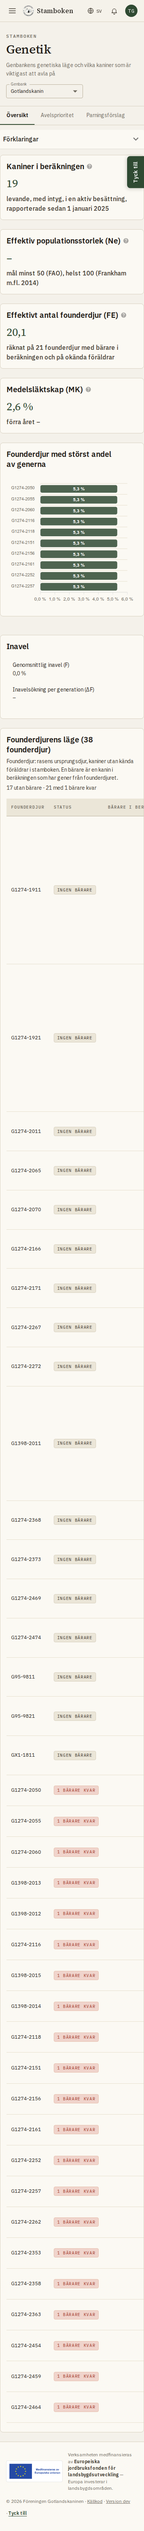
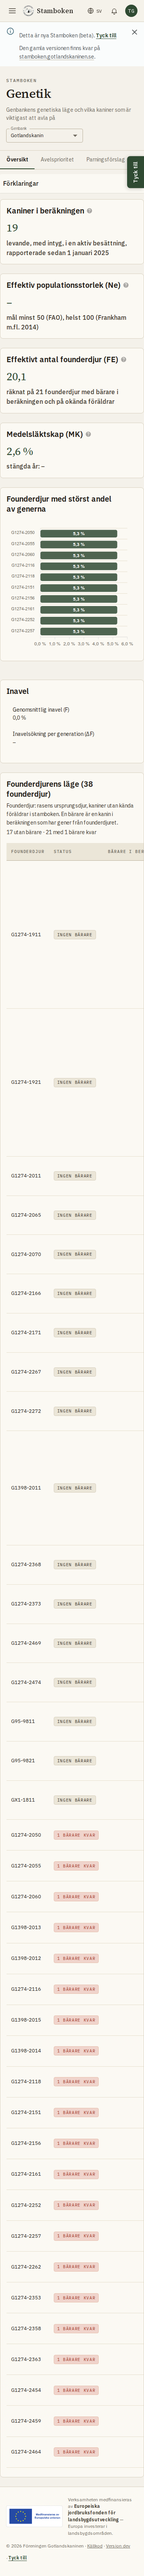
fix(genetik): compare MK across closed years only, and own the priority rule
Today's MK and a history year's MK are counted on different sets of
rabbits, which FAO 2023 (p. 12) says are not comparable, so the card
now sets today's value beside the two latest closed years instead of
"förra året". The Avelsprioritet levels are Stamboken's own percentile
rule, not PMx or Ballou & Lacy 1995 (genetics revision, spår 2 row 42);
the explanation and the docstring now say so.

diff --git a/next-app/src/__tests__/genetics/OverviewTab.test.tsx b/next-app/src/__tests__/genetics/OverviewTab.test.tsx
@@ -86,7 +86,7 @@ describe("OverviewTab", () => {
     expect(screen.getByText("75 ± 5")).toBeDefined();
     expect(screen.getByText("26,3")).toBeDefined();
     expect(screen.getByText("2,6 %")).toBeDefined();
-    expect(screen.getByText("förra året –")).toBeDefined(); // no closed year yet
+    expect(screen.getByText("stängda år: –")).toBeDefined(); // no closed year yet
     expect(screen.queryByText(/under 5|5–10|över 10/)).toBeNull();
     // The card and the table count the same founderdjur.
     expect(
@@ -102,26 +102,28 @@ describe("OverviewTab", () => {
     expect(screen.queryByText(/81/)).toBeNull();
   });
 
-  it("compares MK with the last closed year, without a verdict", () => {
-    const lastYear = new Date().getFullYear() - 1;
+  it("compares the two latest closed years on one rule, without a verdict", () => {
     trendsQuery.mockReturnValueOnce({
       data: [
-        { year: lastYear - 1, mean_kinship: 0.022 },
-        { year: lastYear, mean_kinship: 0.0241 },
+        { year: 2023, mean_kinship: 0.022 },
+        { year: 2024, mean_kinship: 0.0289 },
+        { year: 2025, mean_kinship: 0.0302 },
       ],
       isLoading: false,
     });
     renderTab();
-    expect(screen.getByText("2,6 %")).toBeDefined();
-    expect(screen.getByText("förra året 2,4 %")).toBeDefined();
+    expect(screen.getByText("2,6 %")).toBeDefined(); // today
+    expect(
+      screen.getByText("2024: 2,9 % · 2025: 3,0 % (stängda år)"),
+    ).toBeDefined();
     cleanup();
 
     trendsQuery.mockReturnValueOnce({
-      data: [{ year: lastYear - 2, mean_kinship: 0.0241 }],
+      data: [{ year: 2025, mean_kinship: null }],
       isLoading: false,
     });
     renderTab();
-    expect(screen.getByText(`år ${lastYear - 2} 2,4 %`)).toBeDefined();
+    expect(screen.getByText("2025: – (stängt år)")).toBeDefined();
   });
 
   it("states the reference window's first day in Swedish", () => {

diff --git a/next-app/src/components/genetics/OverviewTab.tsx b/next-app/src/components/genetics/OverviewTab.tsx
@@ -39,15 +39,16 @@ const Chart = dynamic(() => import("react-apexcharts"), {
 });
 
 // No literature gives an absolute MK threshold (FAO 2023: kinship rises with pedigree
-// knowledge), so the card compares with the last closed year instead of colouring a level.
-function lastYearMk(trend: TrendDataPoint[]): string {
-  const last = trend[trend.length - 1];
-  if (last?.mean_kinship == null) return "förra året –";
-  const when =
-    last.year === new Date().getFullYear() - 1
-      ? "förra året"
-      : `år ${last.year}`;
-  return `${when} ${percent(last.mean_kinship)}`;
+// knowledge), so no level is coloured. The comparison is the two latest closed years, both on
+// the history rule: today's set is another population and does not compare with them.
+function closedYearsMk(trend: TrendDataPoint[]): string {
+  const years = trend.slice(-2);
+  if (years.length === 0) return "stängda år: –";
+  const shown = years.map(
+    (d) =>
+      `${d.year}: ${d.mean_kinship == null ? "–" : percent(d.mean_kinship)}`,
+  );
+  return `${shown.join(" · ")} (${years.length === 1 ? "stängt år" : "stängda år"})`;
 }
 
 const swedishDate = (iso: string) =>
@@ -226,8 +227,8 @@ const OverviewTab = ({ genebankId }: OverviewTabProps) => {
           <KpiCard
             title="Medelsläktskap (MK)"
             value={empty ? "–" : percent(metrics.mean_kinship)}
-            subtitle={trend ? lastYearMk(trend) : undefined}
-            tooltip={MK_TEXT}
+            subtitle={trend ? closedYearsMk(trend) : undefined}
+            tooltip={`${MK_TEXT} Det stora talet gäller i dag. Åren under är räknade på varje års kaniner, så de är inte samma population som i dag: jämför åren med varandra, inte med dagens tal.`}
           />
         </Grid>
       </Grid>

diff --git a/next-app/src/components/genetics/GeneticsInfoPanel.tsx b/next-app/src/components/genetics/GeneticsInfoPanel.tsx
@@ -76,8 +76,7 @@ const descriptions: Record<
     {
       term: "Avelsprioritet",
       description:
-        "Högsta: enda kaninen i beräkningen med gener från ett founderdjur, eller ett medelsläktskap på eller under gränsen för de 5\u00a0% minst släkta. Hög: på eller under gränsen för de 25\u00a0% minst släkta, bland de 25\u00a0% med flest unika gener, eller bär gener från ett founderdjur med liten andel av generna (under hälften av en jämn fördelning). Övriga: resten.",
-      source: "Ballou och Lacy 1995 (rangordning efter medelsläktskap)",
+        "Högsta: enda kaninen i beräkningen med gener från ett founderdjur, eller ett medelsläktskap på eller under gränsen för de 5\u00a0% minst släkta. Hög: på eller under gränsen för de 25\u00a0% minst släkta, bland de 25\u00a0% med flest unika gener, eller bär gener från ett founderdjur med liten andel av generna (under hälften av en jämn fördelning). Övriga: resten. Nivåerna är Stambokens egen regel, inte en vedertagen standard: gränserna är andelar av kaninerna, så ungefär 5\u00a0% hamnar alltid i Högsta och minst 25\u00a0% i Hög, hur genbanken än mår.",
     },
     {
       term: "Ovanliga gener (0–100)",

diff --git a/app/utils/genetics.py b/app/utils/genetics.py
@@ -1932,7 +1932,9 @@ def calculate_genetic_priorities(
     """
     Assign genetic conservation priorities to active individuals.
 
-    Priority rules (following PMx/Ballou & Lacy 1995):
+    Priority rules: Stamboken's own percentile cut-offs, not a PMx rule (PMx ranks by MK
+    within sex and has no categories), so about 5 % are critical and at least 25 % important
+    whatever the population's state:
     - critical: Sole living carrier of a founder line, or MK < 5th percentile
     - important: MK < 25th percentile, or GU > 75th percentile,
                  or carries underrepresented founder

diff --git a/docs/ORDLISTA.md b/docs/ORDLISTA.md
@@ -48,8 +48,10 @@ Fliken under Genetik som visar vilka kaniner som är viktigast att avla på, i t
 Hög och Övriga. Högsta är den enda kaninen i beräkningen med gener från ett founderdjur, eller en
 kanin vars medelsläktskap är på eller under gränsen för de 5 % minst släkta. Hög är på eller under
 gränsen för de 25 % minst släkta, bland de 25 % med flest unika gener, eller bär gener från ett
-founderdjur som har liten andel av generna. Övriga är resten. Ordet Kritisk används inte, varken
-här eller om founderdjurens läge.\
+founderdjur som har liten andel av generna. Övriga är resten. Nivåerna är Stambokens egen regel,
+inte en vedertagen standard (PMx rangordnar efter medelsläktskap inom kön och har inga sådana
+klasser): gränserna är andelar av kaninerna, så ungefär 5 % blir alltid Högsta och minst 25 % Hög,
+hur genbanken än mår. Ordet Kritisk används inte, varken här eller om founderdjurens läge.\
 Kod: `calculate_genetic_priorities` (`priority`: `critical`, `important`, `normal`) · Legacy-manual: – · Legacy: – · Nytt UI: samma, "Högsta", "Hög", "Övriga" (PrioritiesTab.tsx:33–35)
 
 **Benring**\
@@ -110,7 +112,7 @@ Hur stor en idealisk population skulle vara för att förlora genetisk variation
 genbanken; ju större, desto bättre. Stamboken räknar den från hur mycket inaveln har ökat per
 generation hos varje kanin i beräkningen (realiserad Ne, Gutiérrez m.fl. 2008), både för i dag och
 för varje stängt år i trenden. Visas som heltal. FAO anger minst 50, Frankham m.fl. 2014 minst 100.\
-Kod: `effective_population_size` (`calculate_realised_ne`) · Legacy-manual: – · Legacy: – · Nytt UI: samma, "Ne" (OverviewTab.tsx:200, TrendChart.tsx)
+Kod: `effective_population_size` (`calculate_realised_ne`) · Legacy-manual: – · Legacy: – · Nytt UI: samma, "Ne" (OverviewTab.tsx:201, TrendChart.tsx)
 
 **Founderdjur**\
 Rasens ursprungsdjur: kaniner utan kända föräldrar i stamboken. Bestämd form plural founderdjuren.
@@ -126,7 +128,7 @@ av generna som i dag (Lacy 1989). Ju högre FE, desto jämnare fördelning. Okä
 så FE kan bli större än antalet founderdjur med bärare. På
 skärmen heter måttet effektivt antal founderdjur och visas med en decimal. Det är inte samma mått
 som founder genome equivalents (FGE), som också räknar med att gener går förlorade av slumpen.\
-Kod: `founder_equivalents` · Legacy-manual: – · Legacy: – · Nytt UI: "Effektivt antal founderdjur (FE)" (OverviewTab.tsx:214), "FE" (TrendChart.tsx)
+Kod: `founder_equivalents` · Legacy-manual: – · Legacy: – · Nytt UI: "Effektivt antal founderdjur (FE)" (OverviewTab.tsx:215), "FE" (TrendChart.tsx)
 
 **Färg / färganteckning**\
 Färgen väljs ur genbankens lista med godkända färger; saknas färgen kontaktar du genbanksansvarig.
@@ -314,9 +316,10 @@ Hur nära släkt två kaniner är, i procent. En avkommas inavelskoefficient är
 mellan föräldrarna. Medelsläktskap (MK) är en kanins genomsnittliga släktskap med de aktiva djuren
 i genbanken; ett lågt värde betyder att kaninen bär ovanliga gener som är viktiga att föra vidare.
 Det finns ingen gräns för vad som är ett högt medelsläktskap: talet stiger ju mer av stamtavlan som är
-känd (FAO 2023, CGRFA-19/23/10.2/Inf.4, s. 12). Genetiksidan visar det därför utan färg och jämför
-med förra stängda året.\
-Kod: `mean_kinship`, `inbreeding` · Legacy-manual: "släkt" · Legacy: "Genomsnittligt släktskap" · Nytt UI: "Medelsläktskap (MK)" på genetiksidan, i procent (OverviewTab.tsx:227), "kinship-koefficienten" under Parningsförslag
+känd (FAO 2023, CGRFA-19/23/10.2/Inf.4, s. 12), och tal räknade på olika uppsättningar kaniner går
+inte att jämföra. Genetiksidan visar därför dagens värde utan färg och, bredvid, de två senaste
+stängda åren, som båda räknas på respektive års kaniner.\
+Kod: `mean_kinship`, `inbreeding` · Legacy-manual: "släkt" · Legacy: "Genomsnittligt släktskap" · Nytt UI: "Medelsläktskap (MK)" på genetiksidan, i procent (OverviewTab.tsx:228), "kinship-koefficienten" under Parningsförslag
 
 **Släktträd / härstamning**\
 Släktträdet visar kaninens föräldrar, mor- och farföräldrar och längre bakåt. Härstamningen är
@@ -431,7 +434,7 @@ ordet i `scripts/check-ui-terms.sh`, med datum om det beslutades 2026-10-30 (se 
 | Provparning | "Provparning", "provpara" (manual:68, 61) | "Provparning" (navigation.tsx:194) | samma som nu | "Provparning" (`sidebar.provparning`), "Provpara" (`individual.edit.testMate`), "testparning" (bli-genbanksbesattning/page.tsx:112, stamboken-online/page.tsx:45) | Öppen fråga |
 | Registrera | "registrera/skapa intyg" (manual:145) | "Registrera" (navigation.tsx:248) | samma som nu | "Registrera" (`litterRoster.registerButton`), "Skriv in ungen i stamboken" (`litterRoster.registerTooltip`) | Öppen fråga |
 | Oregistrerade ungar | "Oregistrerade djur" (manual:30), "Skapa oregistrerade kaniner" (manual:141) | "Visa oregistrerade djur" (herd_view.tsx:184), "Skapa oregistrerade kaniner" (breeding_form.tsx:890) | samma som nu | "Kullista" (`litterRoster.title`), "Lägg till ungar" (`litterRoster.add`), "Behålls oreg." (`bunny.fate.kept_unregistered`) | Öppen fråga |
-| Släktskap | "släkt" (manual:61) | "Genomsnittligt släktskap/ Mean Kinship" (individual_view.tsx:255) | "MK — Genomsnittlig medelkinship", "kinship-koefficienten" (GeneticsInfoPanel.tsx:34, 80) | "Medelsläktskap (MK)" (GeneticsInfoPanel.tsx:57), "kinship-koefficienten" (GeneticsInfoPanel.tsx:107, Parningsförslag) | Öppen fråga |
+| Släktskap | "släkt" (manual:61) | "Genomsnittligt släktskap/ Mean Kinship" (individual_view.tsx:255) | "MK — Genomsnittlig medelkinship", "kinship-koefficienten" (GeneticsInfoPanel.tsx:34, 80) | "Medelsläktskap (MK)" (GeneticsInfoPanel.tsx:57), "kinship-koefficienten" (GeneticsInfoPanel.tsx:106, Parningsförslag) | Öppen fråga |
 | Testmiljön | "Testsystemet", "den skarpa sidan" (manual:238–239) | "OBS DETTA ÄR TESTSYSTEMET!" (navigation.tsx:345) | samma som nu | "testmiljön", "riktiga stamboken" (AvatarMenu.tsx:199–200), "TESTMILJÖ" (DemoBanner.client.tsx:21), "Demosynkronisering" (SystemPillNav.tsx:23) | Öppen fråga |
 | Webbkurs | – | "Validerad" (userForm.tsx:353) | samma som nu | "Webbkurs genomförd (validerad)" (UserEditClient.tsx:366) | Öppen fråga |
 | Administrationen | – | "Administrera" (navigation.tsx:259) | samma som nu | "Administration" (`sidebar.adminSection`) | Öppen fråga |
@@ -486,7 +489,7 @@ Projektägaren beslutade 2026-10-30:
 16. Beslutat 2026-11-25: **Founderdjur** (bestämd form plural founderdjuren) om rasens ursprungsdjur, alltid med en svensk förklaring där ordet först står och under Förklaringar; inte founder, grundare eller founder-linje. Se posten Founderdjur.
 17. Beslutat 2026-11-25: **Avelsprioritet** som rubrik och kolumn, med nivåerna **Högsta**, **Hög** och **Övriga**. Kritisk används inte längre, inte heller om founderdjurens läge. Se posten Avelsprioritet.
 18. Beslutat 2026-11-25: **Ne** på genetiksidan är en och samma skattning i kortet och i trenden: realiserad Ne från varje kanins inavelsökning (Gutiérrez m.fl. 2008), i trenden räknad för varje år på det årets kaniner. Se posten Effektiv populationsstorlek (Ne).
-19. Beslutat 2026-11-25: **Medelsläktskap (MK)** visas utan gräns och färg (inte "under 5 %"), jämfört med förra stängda året. Ingen källa ger en absolut gräns (FAO 2023, s. 12). Se posten Släktskapskoefficient / medelsläktskap (MK).
+19. Beslutat 2026-11-25: **Medelsläktskap (MK)** visas utan gräns och färg (inte "under 5 %"), med de två senaste stängda åren bredvid, räknade på samma regel. Ingen källa ger en absolut gräns (FAO 2023, s. 12). Se posten Släktskapskoefficient / medelsläktskap (MK).
 
 ## Öppna frågor
 

diff --git a/next-app/public/stamboken/manual/USER_MANUAL.md b/next-app/public/stamboken/manual/USER_MANUAL.md
@@ -962,8 +962,10 @@ första anropet och kan ta upp till en minut.
 1. Välj **Genbank** om du ansvarar för flera.
 2. **Översikt** – nyckeltalen **Kaniner i beräkningen** (med datumet som räkningen
    börjar från), **Effektiv populationsstorlek (Ne)** (målet är minst 50, helst 100),
-   **Effektivt antal founderdjur (FE)** och **Medelsläktskap (MK)**, som jämförs med
-   förra året eftersom det inte finns någon gräns för vad som är högt. Sedan kommer
+   **Effektivt antal founderdjur (FE)** och **Medelsläktskap (MK)**. Det finns ingen
+   gräns för vad som är ett högt medelsläktskap, så kortet visar i stället de två
+   senaste stängda åren under dagens tal; de räknas på varje års kaniner och jämförs
+   med varandra, inte med dagens tal. Sedan kommer
    diagrammet **Founderdjur med störst andel av generna**, rutan **Inavel** med
    genomsnittlig inavel (F) och inavelsökning per generation (ΔF), **Genetiska
    trender** med ett mått i taget och tabellen **Founderdjurens läge** med statusarna
